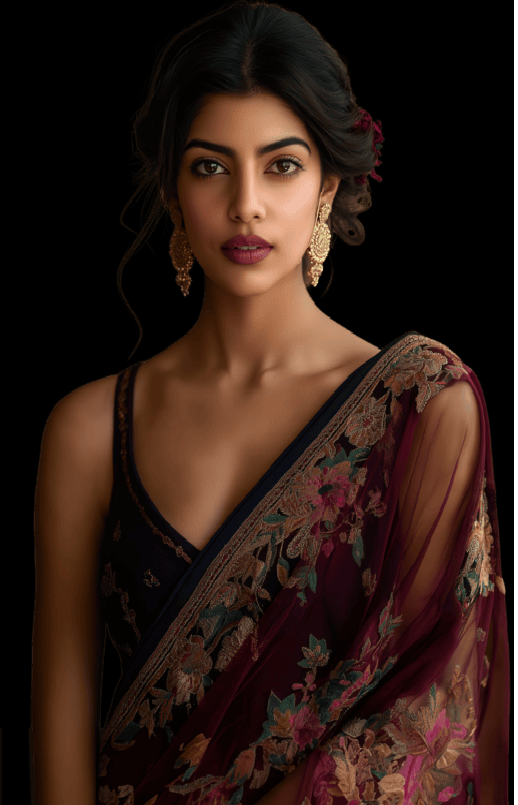
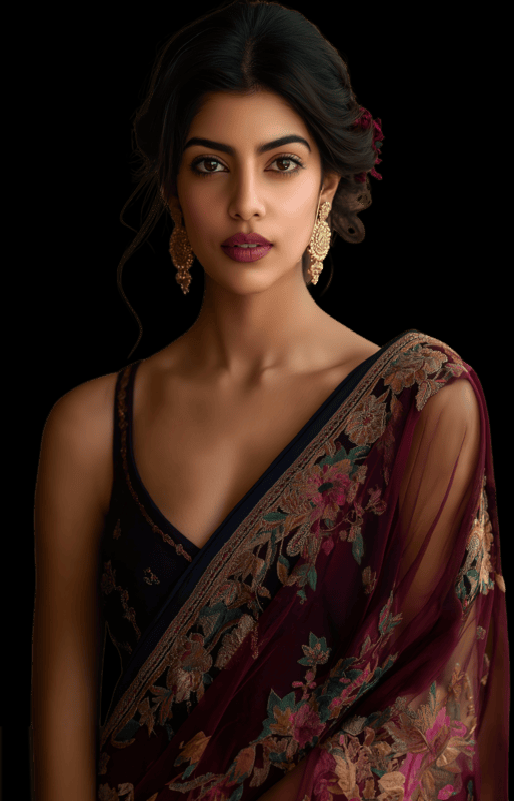
adding images

diff --git a/FrontEnd/ecommerce/src/app/pages/home/home.component.ts b/FrontEnd/ecommerce/src/app/pages/home/home.component.ts
@@ -5,23 +5,20 @@ import { Subscription } from 'rxjs';
 import { Product } from 'src/app/models/product.model';
 import { StoreService } from 'src/app/services/store.service';
 import { CartService } from './../../services/cart.service';
-import { IndexpageService } from 'src/app/services/indexpage.service';
-import { IndexPage } from 'src/app/models/index-page.model';
+
 
 const ROWS_HEIGHT: { [id:number]: number } = { 1: 400, 2: 380, 3: 335, 4: 350};
 @Component({
   selector: 'app-home',
   templateUrl: './home.component.html',
   styleUrls: ['./home.component.css']
-  
 })
 export class HomeComponent implements OnInit, OnDestroy {
 
   showFilters = false;
   showCarousel = true;
   drawerMode: 'side' | 'over' = 'side';
-
-  
+ 
   // (banner removed)
 
   category: string | undefined;
@@ -34,7 +31,7 @@ export class HomeComponent implements OnInit, OnDestroy {
   productSubscription: Subscription | undefined;  
   activeCategory: any = null;
   filteredProducts: any[] = []; // Array to store filtered products
-
+  images: any[] = [];
   constructor(
     private cartService: CartService,
     private storeService: StoreService,   
@@ -43,7 +40,7 @@ export class HomeComponent implements OnInit, OnDestroy {
   ) { }
 
   ngOnInit(): void {
-   
+    this.images = ['assets/PhotoGallery/Hero/1.png', 'assets/PhotoGallery/Hero/2.png', 'assets/PhotoGallery/Hero/3.png', 'assets/PhotoGallery/Hero/4.png'];
     this.getProducts();
     this.breakpoint.observe([Breakpoints.XSmall, Breakpoints.Small]).subscribe(result => {
       // Prefer XSmall -> 1 column, Small -> 2 columns, otherwise desktop (4)

diff --git a/FrontEnd/ecommerce/src/app/footer/footer.component.spec.ts b/FrontEnd/ecommerce/src/app/footer/footer.component.spec.ts
@@ -1,0 +1,23 @@
+import { ComponentFixture, TestBed } from '@angular/core/testing';
+
+import { FooterComponent } from './footer.component';
+
+describe('FooterComponent', () => {
+  let component: FooterComponent;
+  let fixture: ComponentFixture<FooterComponent>;
+
+  beforeEach(async () => {
+    await TestBed.configureTestingModule({
+      imports: [FooterComponent]
+    })
+    .compileComponents();
+
+    fixture = TestBed.createComponent(FooterComponent);
+    component = fixture.componentInstance;
+    fixture.detectChanges();
+  });
+
+  it('should create', () => {
+    expect(component).toBeTruthy();
+  });
+});

diff --git a/FrontEnd/ecommerce/src/app/pages/home/home.component.html b/FrontEnd/ecommerce/src/app/pages/home/home.component.html
@@ -11,7 +11,7 @@
   <mat-drawer-content class="p-6">
 
     <div class="carousel-wrapper">    
-      <app-carousel [images]="['assets/hero-1.jpg','assets/hero-2.jpg','assets/hero-3.jpg']" [interval]="5000"></app-carousel>
+      <app-carousel [images]="images" [interval]="5000"></app-carousel>
     </div>
     <app-products-header (columnsCountChange)="onColumnsCountChange($event)"></app-products-header>
 
@@ -24,6 +24,7 @@
         [fullWidthMode]="cols === 1"></app-product-box>
       </mat-grid-tile>
     </mat-grid-list>
-
+    <app-footer></app-footer>
   </mat-drawer-content>
+  
 </mat-drawer-container>

diff --git a/FrontEnd/ecommerce/src/app/app.module.ts b/FrontEnd/ecommerce/src/app/app.module.ts
@@ -30,6 +30,7 @@ import { LoginDialogComponent } from './login-dialog/login-dialog.component';
 import {MatInputModule} from '@angular/material/input';
 import { MatFormFieldModule } from '@angular/material/form-field';
 import { FormsModule } from '@angular/forms';
+import { FooterComponent } from './footer/footer.component';
 
 @NgModule({
   declarations: [
@@ -41,7 +42,8 @@ import { FormsModule } from '@angular/forms';
     ProductBoxComponent,
     CartComponent,
     CarouselComponent,
-    LoginDialogComponent
+    LoginDialogComponent,
+    FooterComponent
   ],
   imports: [
     BrowserModule,

diff --git a/FrontEnd/ecommerce/src/app/footer/footer.component.css b/FrontEnd/ecommerce/src/app/footer/footer.component.css
@@ -1,0 +1,17 @@
+/* styles.scss */
+
+body {
+  display: flex;
+  flex-direction: column;
+  min-height: 100vh; /* Ensures the container takes up at least the full height of the viewport */
+  margin: 0; /* Removes default body margins */
+}
+
+app-header, app-footer {
+  /* You can add specific styling here */
+  flex-shrink: 0; /* Prevents the header/footer from shrinking */
+}
+
+main {
+  flex: 1 0 auto; /* Allows the main content area to grow and push the footer down */
+}

diff --git a/FrontEnd/ecommerce/src/app/footer/footer.component.html b/FrontEnd/ecommerce/src/app/footer/footer.component.html
@@ -1,0 +1,14 @@
+ 
+  <footer>
+  <div class="container">
+    <p>&copy; {{ currentYear }} Your Company Name. All rights reserved.</p>
+    <nav>
+      <ul class="menubar-list">
+        <li><a href="/about">About Us</a></li>
+        <li><a href="/contact">Contact</a></li>
+        <li><a href="/privacy">Privacy Policy</a></li>
+      </ul>
+    </nav>
+  </div>
+</footer>
+

diff --git a/FrontEnd/ecommerce/src/app/models/menu-item.model.ts b/FrontEnd/ecommerce/src/app/models/menu-item.model.ts
@@ -1,5 +1,8 @@
+import { MatMenuPanel } from "@angular/material/menu";
+
 export interface MenuItem {
     label: string;
     action?: () => void; // Optional: for actions to perform on click
     routerLink?: string; // Optional: for navigation
+    matMenuTriggerFor?: MatMenuPanel<any>; // Optional: for Angular Material menu trigger
 }

diff --git a/FrontEnd/ecommerce/src/app/footer/footer.component.ts b/FrontEnd/ecommerce/src/app/footer/footer.component.ts
@@ -1,0 +1,10 @@
+import { Component } from '@angular/core';
+
+@Component({
+  selector: 'app-footer',
+  templateUrl: './footer.component.html',
+  styleUrl: './footer.component.css'
+})
+export class FooterComponent {
+  currentYear: number = new Date().getFullYear();   
+}
